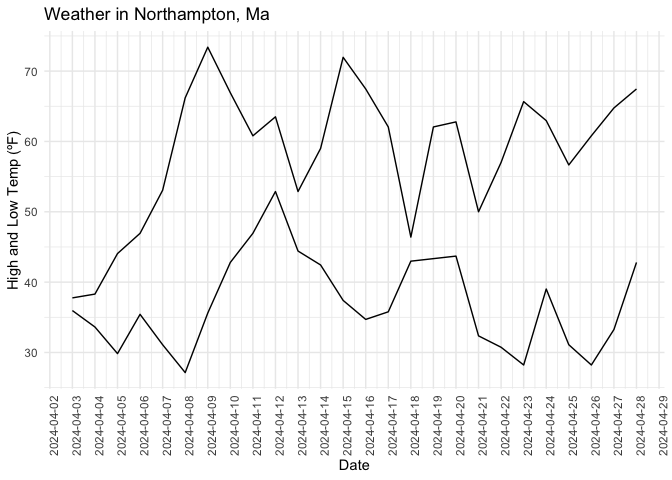
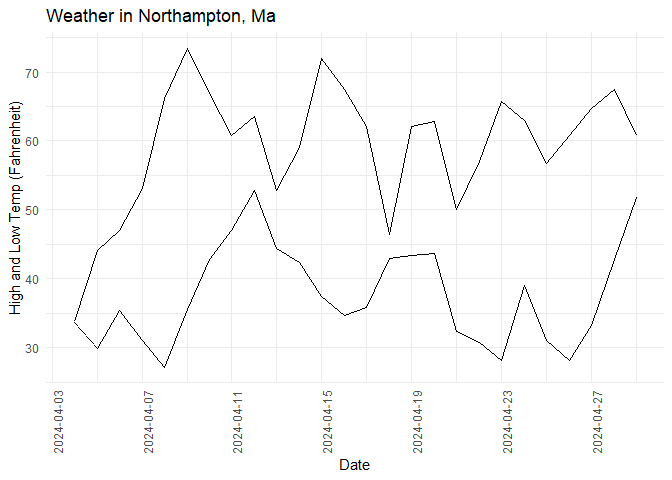
forgot the readme build

diff --git a/README.md b/README.md
@@ -4,11 +4,14 @@
 # weather
 
 <!-- badges: start -->
+
+[![R-CMD-check](https://github.com/JuliaYu2002/weather/actions/workflows/R-CMD-check.yaml/badge.svg)](https://github.com/JuliaYu2002/weather/actions/workflows/R-CMD-check.yaml)
 <!-- badges: end -->
 
 The weather package retrieves weather data (highest temperature, lowest
-temperature, precipitation) from various websites and provides users
-with useful functions for data manipulation and visualization.
+temperature, precipitation, windspeed) from websites and data sets,
+providing users with useful functions for data manipulation and
+visualization.
 
 ## Installation
 
@@ -34,70 +37,70 @@ library(weather)
 
 noho_forecast <- weather_noho()
 print(noho_forecast)
-#>        Day       Date           Status High Low Precipitation Type
-#> 1  Tonight 2024-04-28    Showers Early   NA  56               Rain
-#> 2   Mon 29 2024-04-29    Partly Cloudy   76  50               Rain
-#> 3   Tue 30 2024-04-30           Cloudy   68  48               Rain
-#> 4   Wed 01 2024-05-01       AM Showers   64  48               Rain
-#> 5   Thu 02 2024-05-02    Partly Cloudy   76  48               Rain
-#> 6   Fri 03 2024-05-03    Mostly Cloudy   74  48               Rain
-#> 7   Sat 04 2024-05-04          Showers   69  49               Rain
-#> 8   Sun 05 2024-05-05 AM Clouds/PM Sun   71  48               Rain
-#> 9   Mon 06 2024-05-06    Partly Cloudy   69  47               Rain
-#> 10  Tue 07 2024-05-07    Partly Cloudy   65  45               Rain
-#> 11  Wed 08 2024-05-08       AM Showers   65  45               Rain
-#> 12  Thu 09 2024-05-09    Mostly Cloudy   65  46               Rain
-#> 13  Fri 10 2024-05-10          Showers   65  46               Rain
-#> 14  Sat 11 2024-05-11    Mostly Cloudy   68  48               Rain
-#> 15  Sun 12 2024-05-12          Showers   68  47               Rain
+#>       Day       Date           Status High Low Precipitation Type
+#> 1   Today 2024-04-29 AM Clouds/PM Sun   73  51               Rain
+#> 2  Tue 30 2024-04-30       AM Showers   62  46               Rain
+#> 3  Wed 01 2024-05-01           Cloudy   64  47               Rain
+#> 4  Thu 02 2024-05-02    Mostly Cloudy   71  48               Rain
+#> 5  Fri 03 2024-05-03           Cloudy   68  45               Rain
+#> 6  Sat 04 2024-05-04    Mostly Cloudy   68  45               Rain
+#> 7  Sun 05 2024-05-05          Showers   66  49               Rain
+#> 8  Mon 06 2024-05-06    Partly Cloudy   73  51               Rain
+#> 9  Tue 07 2024-05-07    Partly Cloudy   72  49               Rain
+#> 10 Wed 08 2024-05-08    Partly Cloudy   69  46               Rain
+#> 11 Thu 09 2024-05-09          Showers   65  49               Rain
+#> 12 Fri 10 2024-05-10    Mostly Cloudy   67  47               Rain
+#> 13 Sat 11 2024-05-11    Partly Cloudy   68  48               Rain
+#> 14 Sun 12 2024-05-12          Showers   67  46               Rain
+#> 15 Mon 13 2024-05-13          Showers   66  47               Rain
 #>    Precipitation Chance Wind Direction Wind Speed        City         State
-#> 1                    41              W         10 Northampton Massachusetts
-#> 2                     7              N          8 Northampton Massachusetts
-#> 3                    24             SE          8 Northampton Massachusetts
-#> 4                    44            ENE          6 Northampton Massachusetts
-#> 5                    13             SW          9 Northampton Massachusetts
-#> 6                     9             SE          9 Northampton Massachusetts
-#> 7                    43             SE          9 Northampton Massachusetts
-#> 8                    24             SW          9 Northampton Massachusetts
-#> 9                    24              W         10 Northampton Massachusetts
-#> 10                   15             NW         10 Northampton Massachusetts
-#> 11                   32             NW         10 Northampton Massachusetts
-#> 12                   22             NW         11 Northampton Massachusetts
-#> 13                   39             NW         10 Northampton Massachusetts
-#> 14                   22             NW          9 Northampton Massachusetts
-#> 15                   44            WNW          9 Northampton Massachusetts
+#> 1                     4            NNE          8 Northampton Massachusetts
+#> 2                    57             SE          8 Northampton Massachusetts
+#> 3                    24            ENE          5 Northampton Massachusetts
+#> 4                    16            SSW          7 Northampton Massachusetts
+#> 5                    12            ENE          8 Northampton Massachusetts
+#> 6                    13             SE          8 Northampton Massachusetts
+#> 7                    51              S          9 Northampton Massachusetts
+#> 8                    20            WSW         10 Northampton Massachusetts
+#> 9                    24              W         11 Northampton Massachusetts
+#> 10                   20             NW         10 Northampton Massachusetts
+#> 11                   52             NW         10 Northampton Massachusetts
+#> 12                   24            WNW          9 Northampton Massachusetts
+#> 13                   24             NW         10 Northampton Massachusetts
+#> 14                   51             NW         10 Northampton Massachusetts
+#> 15                   51             NW         10 Northampton Massachusetts
 
 noho_past <- past_days(city = "northampton", 
                        state ="massachusetts", 
                        zip = "01060")
 print(noho_past)
 #>           City State  High   Low       Date Precipitation
-#> 1  Northampton    MA 37.76 35.96 2024-04-03         0.000
-#> 2  Northampton    MA 38.30 33.62 2024-04-04         0.005
-#> 3  Northampton    MA 44.06 29.84 2024-04-05         0.002
-#> 4  Northampton    MA 46.94 35.42 2024-04-06         0.000
-#> 5  Northampton    MA 53.06 31.10 2024-04-07         0.000
-#> 6  Northampton    MA 66.20 27.14 2024-04-08         0.000
-#> 7  Northampton    MA 73.40 35.60 2024-04-09         0.000
-#> 8  Northampton    MA 66.92 42.80 2024-04-10         0.024
-#> 9  Northampton    MA 60.80 46.94 2024-04-11         0.130
-#> 10 Northampton    MA 63.50 52.88 2024-04-12         0.530
-#> 11 Northampton    MA 52.88 44.42 2024-04-13         0.016
-#> 12 Northampton    MA 59.00 42.44 2024-04-14         0.046
-#> 13 Northampton    MA 71.96 37.40 2024-04-15         0.000
-#> 14 Northampton    MA 67.46 34.70 2024-04-16         0.000
-#> 15 Northampton    MA 62.06 35.78 2024-04-17         0.001
-#> 16 Northampton    MA 46.40 42.98 2024-04-18         0.262
-#> 17 Northampton    MA 62.06 43.34 2024-04-19         0.000
-#> 18 Northampton    MA 62.78 43.70 2024-04-20         0.182
-#> 19 Northampton    MA 50.00 32.36 2024-04-21         0.000
-#> 20 Northampton    MA 57.02 30.74 2024-04-22         0.000
-#> 21 Northampton    MA 65.66 28.22 2024-04-23         0.000
-#> 22 Northampton    MA 62.96 39.02 2024-04-24         0.003
-#> 23 Northampton    MA 56.66 31.10 2024-04-25         0.000
-#> 24 Northampton    MA 60.80 28.22 2024-04-26         0.000
-#> 25 Northampton    MA 64.76 33.26 2024-04-27         0.013
-#> 26 Northampton    MA 67.46 42.80 2024-04-28         0.260
+#> 1  Northampton    MA 33.80 33.62 2024-04-04         0.000
+#> 2  Northampton    MA 44.06 29.84 2024-04-05         0.002
+#> 3  Northampton    MA 46.94 35.42 2024-04-06         0.000
+#> 4  Northampton    MA 53.06 31.10 2024-04-07         0.000
+#> 5  Northampton    MA 66.20 27.14 2024-04-08         0.000
+#> 6  Northampton    MA 73.40 35.60 2024-04-09         0.000
+#> 7  Northampton    MA 66.92 42.80 2024-04-10         0.024
+#> 8  Northampton    MA 60.80 46.94 2024-04-11         0.130
+#> 9  Northampton    MA 63.50 52.88 2024-04-12         0.530
+#> 10 Northampton    MA 52.88 44.42 2024-04-13         0.016
+#> 11 Northampton    MA 59.00 42.44 2024-04-14         0.046
+#> 12 Northampton    MA 71.96 37.40 2024-04-15         0.000
+#> 13 Northampton    MA 67.46 34.70 2024-04-16         0.000
+#> 14 Northampton    MA 62.06 35.78 2024-04-17         0.001
+#> 15 Northampton    MA 46.40 42.98 2024-04-18         0.262
+#> 16 Northampton    MA 62.06 43.34 2024-04-19         0.000
+#> 17 Northampton    MA 62.78 43.70 2024-04-20         0.182
+#> 18 Northampton    MA 50.00 32.36 2024-04-21         0.000
+#> 19 Northampton    MA 57.02 30.74 2024-04-22         0.000
+#> 20 Northampton    MA 65.66 28.22 2024-04-23         0.000
+#> 21 Northampton    MA 62.96 39.02 2024-04-24         0.003
+#> 22 Northampton    MA 56.66 31.10 2024-04-25         0.000
+#> 23 Northampton    MA 60.80 28.22 2024-04-26         0.000
+#> 24 Northampton    MA 64.76 33.26 2024-04-27         0.013
+#> 25 Northampton    MA 67.46 42.80 2024-04-28         0.311
+#> 26 Northampton    MA 60.80 51.80 2024-04-29         0.000
 ```
 
 You can also plot the precipitation or the high/low temperatures using
